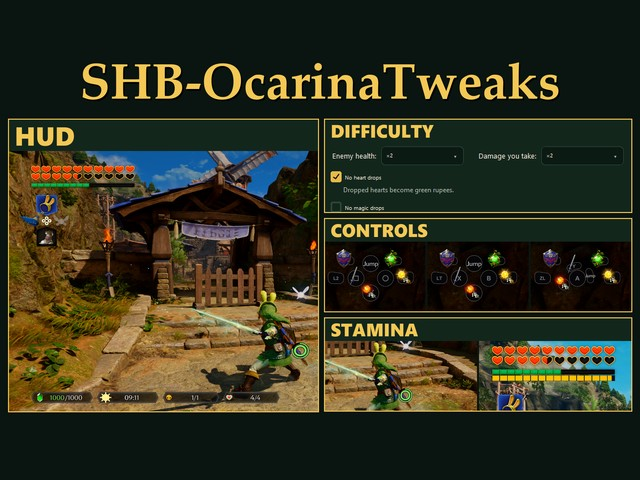
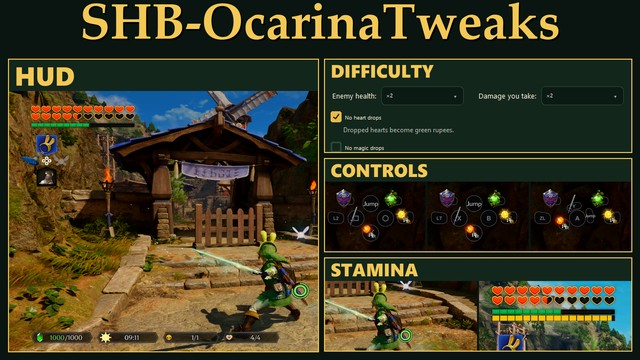
Docs: the mini cover keeps the 16:9 aspect ratio (640x360, no bars)

diff --git a/docs/GAMEBANANA.md b/docs/GAMEBANANA.md
@@ -153,4 +153,4 @@ The AI software was used as an assistant; the design, direction, integration and
 
 - Source and issues: https://github.com/kuribox/OOT-SuperHeroBoostMod
 - App downloads: https://github.com/kuribox/OOT-SuperHeroBoostMod/releases
-- Cover art: `docs/portada.png` (1920x1080) and `docs/portada-mini.jpg` (640x480, for the listing thumbnail).
+- Cover art: `docs/portada.png` (1920x1080) and `docs/portada-mini.jpg` (640x360, 16:9, for the listing thumbnail).
